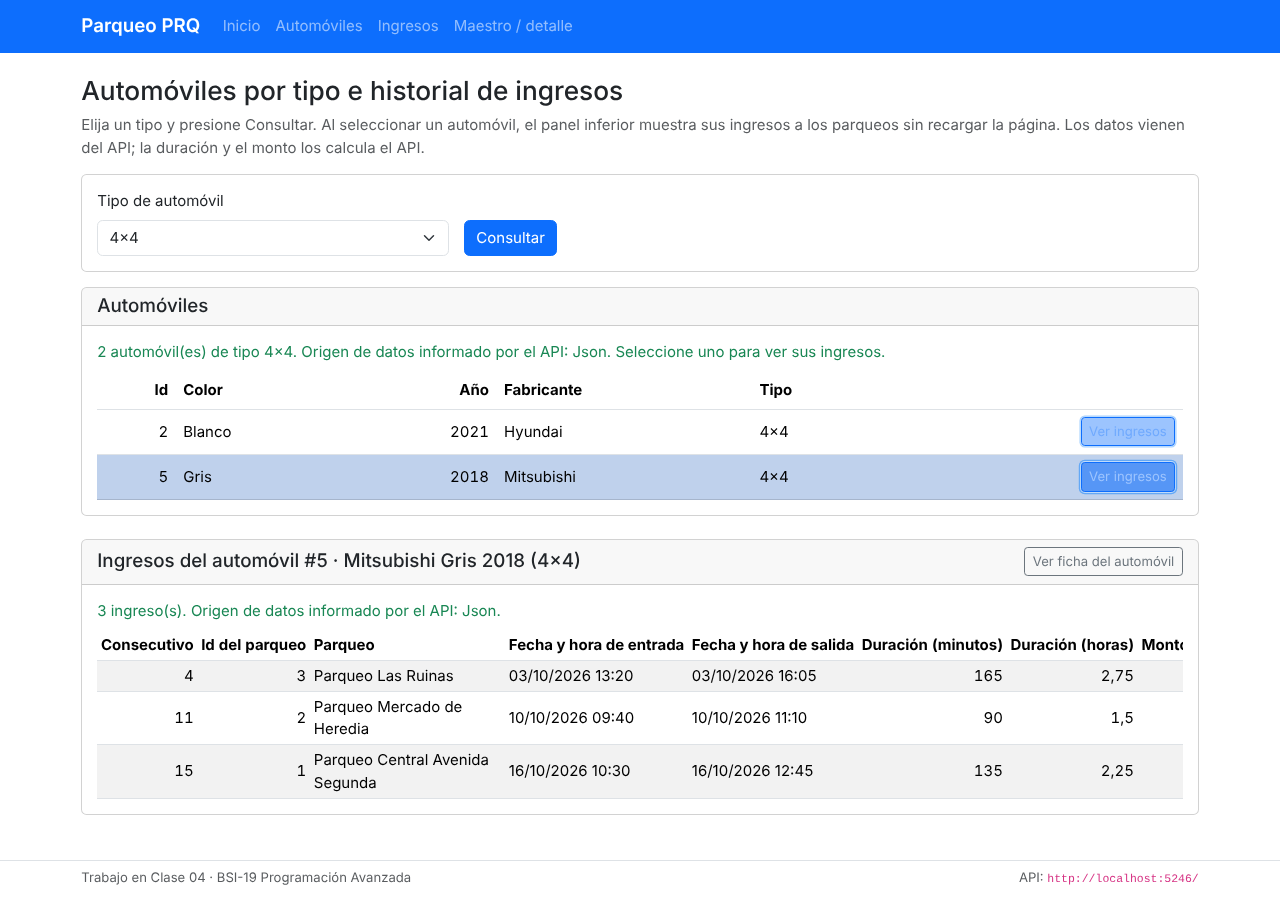
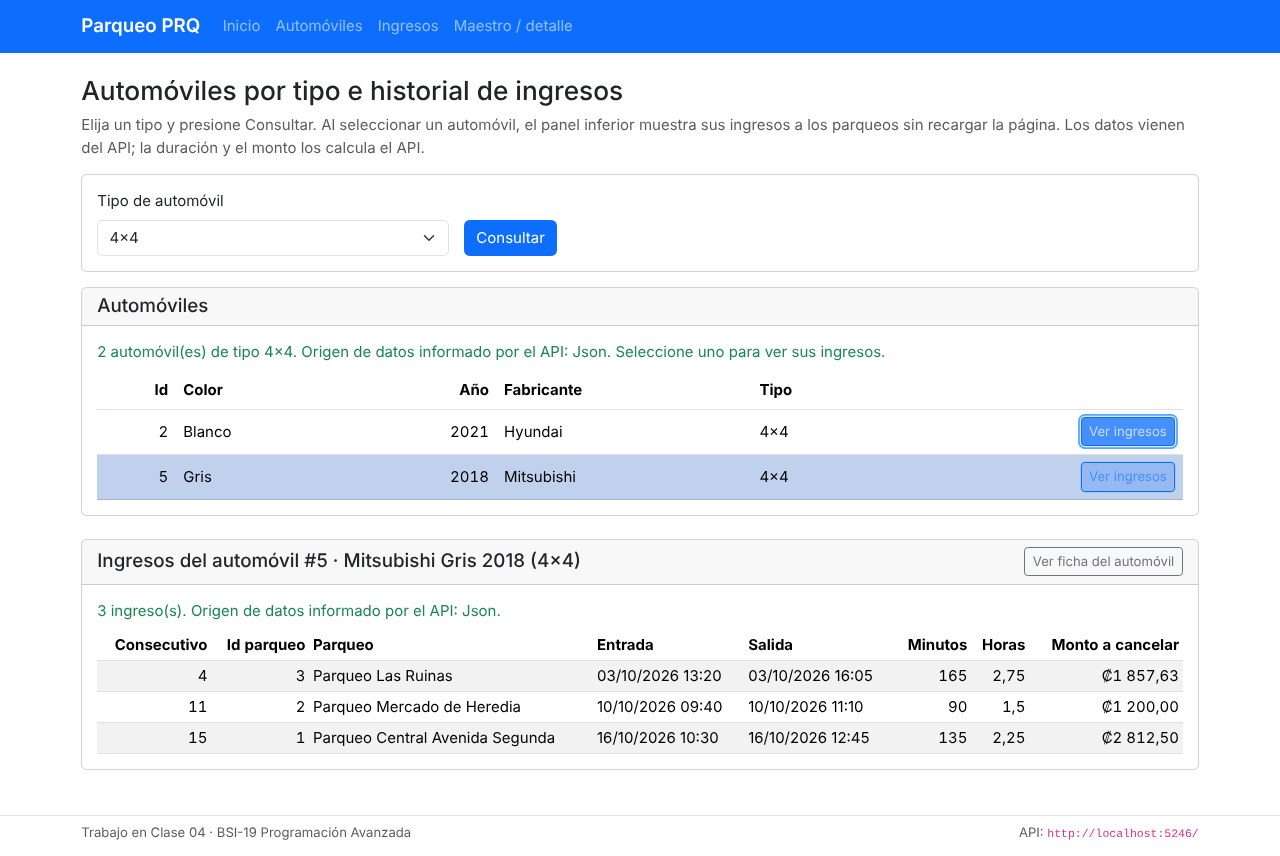
fix: mostrar todas las columnas del detalle sin desplazamiento horizontal
En una ventana de 1280 px la columna «Monto a cancelar» del panel de detalle quedaba
fuera de la vista (la tabla se desplazaba horizontalmente). Se usan encabezados breves
(Id parqueo, Entrada, Salida, Minutos, Horas) y fechas sin corte de línea; la prueba en
navegador ahora verifica que no haya desborde y las capturas de la etapa 2 se regeneraron.

Claude-Session: https://claude.ai/code/session_01PHQDPgtPUoA1syEjKGDMft

diff --git a/Parqueo.Mvc/wwwroot/css/site.css b/Parqueo.Mvc/wwwroot/css/site.css
@@ -44,7 +44,13 @@ tr.fila-seleccionable:focus-visible {
   margin-bottom: 0;
 }
 
-/* Maestro/detalle: el nombre del parqueo no se parte en muchas líneas. */
+/* Maestro/detalle: el nombre del parqueo no se parte en muchas líneas y las fechas no se
+   parten; con encabezados breves las ocho columnas caben sin desplazamiento horizontal. */
 #tabla-detalle td:nth-child(3) {
-  min-width: 13rem;
+  min-width: 12rem;
+}
+
+#tabla-detalle td:nth-child(4),
+#tabla-detalle td:nth-child(5) {
+  white-space: nowrap;
 }
